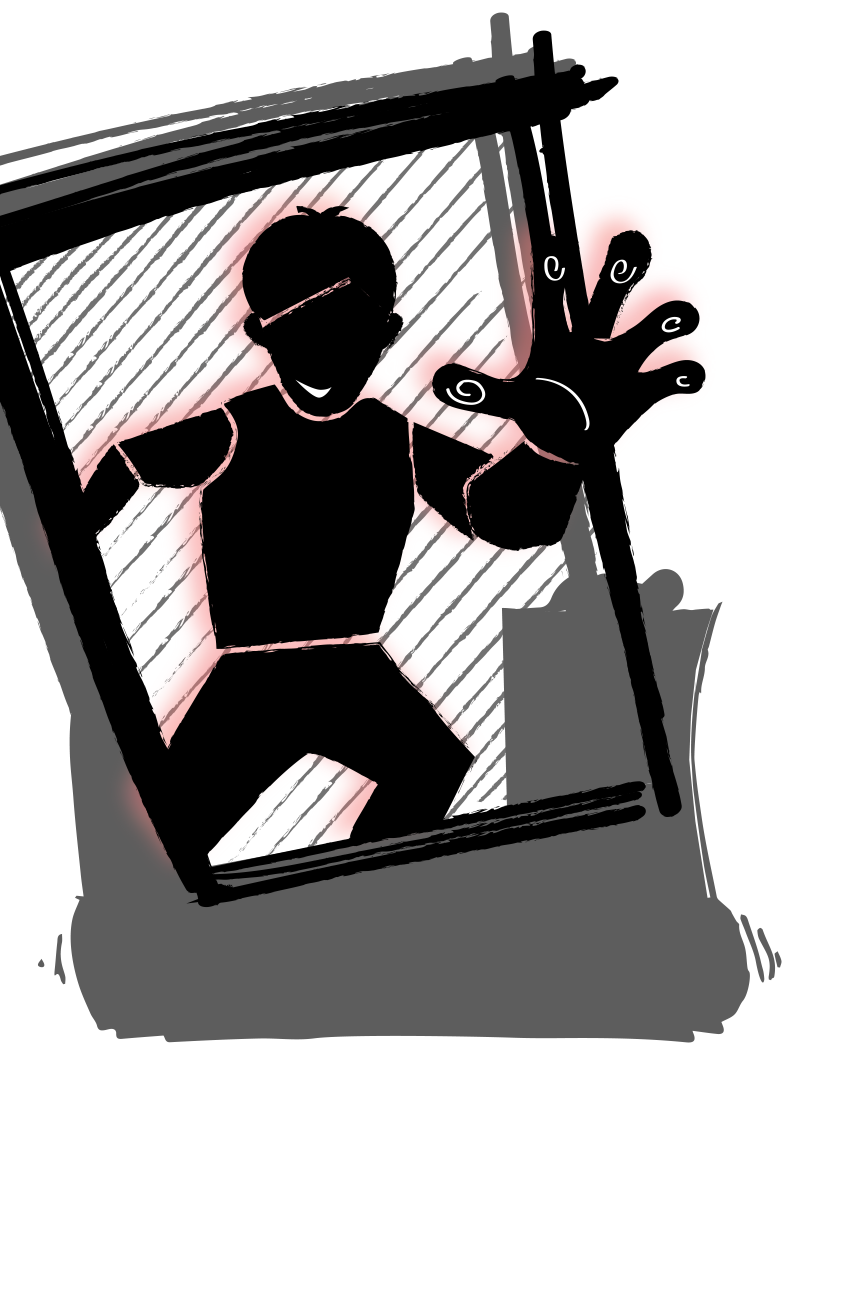
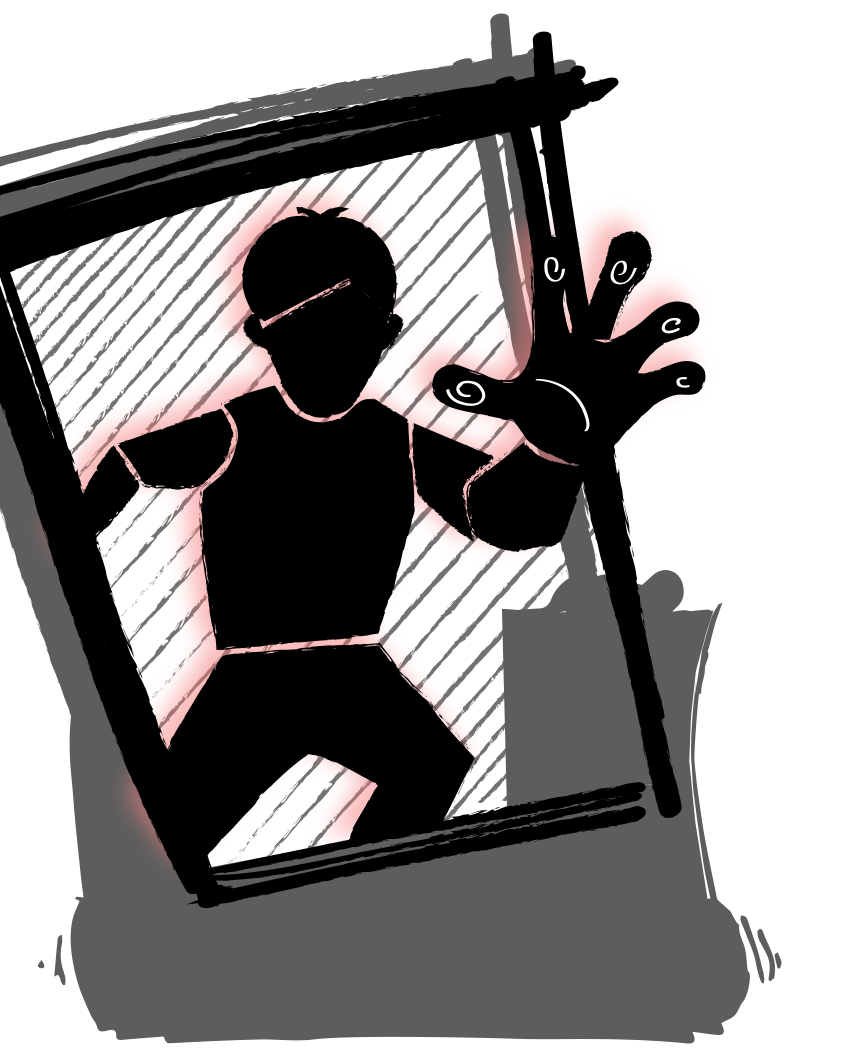
home

diff --git a/src/containers/Home/index.js b/src/containers/Home/index.js
@@ -26,7 +26,7 @@ const styles = {
   robber: {
     position: 'absolute',
     width: '100%',
-    bottom: 0,
+    bottom: '20%',
   },
   phone: {
     position: 'absolute',
@@ -41,42 +41,64 @@ const styles = {
   desc: {
     position: 'absolute',
     width: '100%',
-    bottom: 0,
+    bottom: '20%',
+  },
+  name: {
+    position: 'absolute',
+    width: '45%',
+    left: 0,
+    right: 0,
+    margin: 'auto',
+    bottom: '25%',
+    fontSize: 20,
+    zIndex: 999,
+    background: 'none',
+    border: 'none',
+    '&::placeholder': {
+      color: 'black',
+    }
   },
   go: {
     position: 'absolute',
-    width: '100%',
-    bottom: 0,
+    width: '30%',
+    left: 0,
+    right: 0,
+    margin: 'auto',
+    bottom: '5%',
   },
 }
 
 class Comp extends React.Component {
-  handleChange = event => {}
+  handleChange = event => {
+    const { dispatch } = this.props
+    dispatch(App.sign(event.target.value))
+  }
   handleClick = event => {
     const { history } = this.props
     history.push('./scene1')
   }
   render() {
-    const { classes } = this.props
+    const { classes, app } = this.props
 
     return (
       <Preload images={[ logo, me, robber, phone, desc, go ]}>
         <QueueAnim key="robber" type="left" delay={1000} duration={1000} component="span">
           <img key="robber" alt="robber" src={robber} className={classes.robber} />
         </QueueAnim>
+        <QueueAnim key="desc" type="left" delay={1000} duration={1000} component="span">
+          <img key="desc" alt="desc" src={desc} className={classes.desc} />
+          <input key="name" placeholder="姓名：" value={app.name} className={classes.name} onChange={this.handleChange} />
+        </QueueAnim>
         <QueueAnim key="phone" type="top" delay={2000} duration={1000} component="span">
           <TweenOne key="phone" animation={{ y: "-10%", yoyo: true, repeat: -1, type: 'from', duration: 1555 }} component="img" alt="phone" src={phone} className={classes.phone} />
-        </QueueAnim>
-        <QueueAnim key="desc" type="bottom" delay={3000} duration={2000} component="span">
-          <img key="desc" alt="desc" src={desc} className={classes.desc} />
         </QueueAnim>
         <QueueAnim key="me" type="right" delay={1000} duration={1000} component="span">
           <img key="me" alt="me" src={me} className={classes.me} />
         </QueueAnim>
-        <QueueAnim key="go" type="scale" delay={5000} duration={1000} component="span">
-          <TweenOne key="go" animation={{ scale: 1.2, yoyo: true, repeat: -1, type: 'from', duration: 955 }} component="img" alt="go" src={go} className={classes.go} onClick={this.handleClick} />
+        <QueueAnim key="go" type="bottom" delay={3000} duration={1000} component="span">
+          <TweenOne key="go" animation={{ scale: 1.1, yoyo: true, repeat: -1, type: 'from', duration: 955 }} component="img" alt="go" src={go} className={classes.go} onClick={this.handleClick} />
         </QueueAnim>
-        <QueueAnim key="logo" type="scaleBig" delay={0} duration={1000} component="span">
+        <QueueAnim key="logo" type="scale" delay={0} duration={1000} component="span">
           <TweenOne key="logo" animation={{ scale: 1.1, yoyo: true, repeat: -1, type: 'from', duration: 1000 }} component="img" alt="logo" src={logo} className={classes.logo} />
         </QueueAnim>
       </Preload>

diff --git a/src/containers/Share/index.js b/src/containers/Share/index.js
@@ -26,7 +26,10 @@ class Comp extends React.Component {
     return (
       <QueueAnim className={classes.root}>
         <div key="head" className={classes.head}>
-          <Typography variant="display2">
+          <Typography variant="title">
+            {app.name}
+          </Typography>
+          <Typography variant="headline">
             {app.scores}
           </Typography>
         </div>
